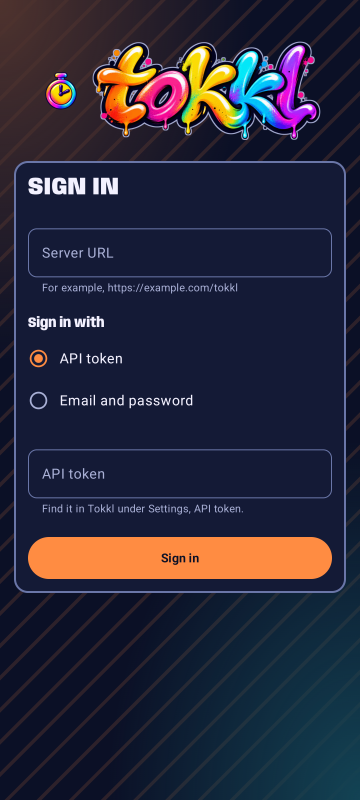
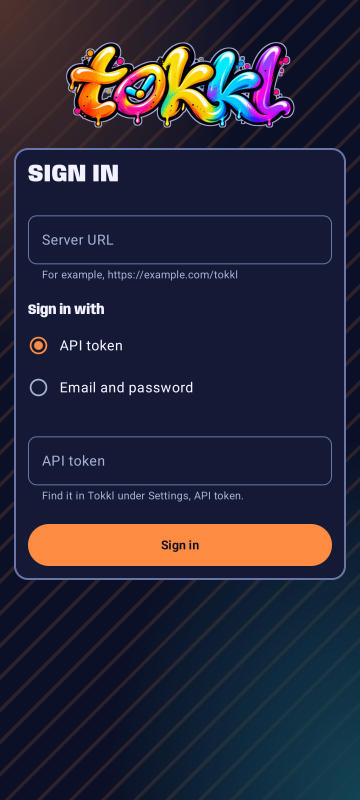
feat(brand): show the clock O wordmark alone as the brand
Brand now draws only the wordmark, on the sign-in scene and as the
Timer page heading. The logo stays the launcher icon. The 12 old icon
PNGs, their sm, md and lg aliases and the keep.xml mention are gone.

The 12 wordmark PNGs are cut from Tokkl's clock O master
(docs/brand/wordmark-pack/source/tokkl-wordmark-clock-master.png at
df6711b) with the alpha bounds plus a 4 px margin, 2059x769, at their
old widths. WORDMARK_ASPECT_RATIO follows the new crop. The wordmark is
shorter for its width, so the content under it moves up.

BrandTest fails when anything sits beside the wordmark in Brand, at all
three sizes. The sign-in, Timer and Calendar references are re-recorded
on tokkl-api36. The Calendar view shows the Timer heading too. The PRD
now says the logo never appears beside the wordmark.

Refs: TKA-0164

Changed region(s): [[0.0306, 0.2812, 0.9778, 0.75], [0.0306, 0.0312, 0.8861, 0.25], [0.8861, 0.1875, 0.9778, 0.2188]]

diff --git a/app/src/androidTest/java/com/github/e0ipso/tokkl/ui/BrandTest.kt b/app/src/androidTest/java/com/github/e0ipso/tokkl/ui/BrandTest.kt
@@ -12,8 +12,10 @@ import androidx.compose.ui.graphics.Color
 import androidx.compose.ui.graphics.PixelMap
 import androidx.compose.ui.graphics.toPixelMap
 import androidx.compose.ui.platform.testTag
+import androidx.compose.ui.semantics.Role
 import androidx.compose.ui.semantics.SemanticsProperties
 import androidx.compose.ui.semantics.getOrNull
+import androidx.compose.ui.test.SemanticsMatcher
 import androidx.compose.ui.test.captureToImage
 import androidx.compose.ui.test.getUnclippedBoundsInRoot
 import androidx.compose.ui.test.hasContentDescription
@@ -37,10 +39,10 @@ import org.junit.Rule
 import org.junit.Test
 
 /**
- * The brand's halo and its fit (docs/PRD.md, Visual direction, Wordmark). The halo is checked
- * against the same brand drawn in light mode, which draws none, on the same background, and
- * against the wordmark alone on a marker colour, which shows where the artwork is.
- * LaunchScreenTest and SignInScreenTest check that TalkBack reads the brand once.
+ * The brand's halo, its fit, and that it is the wordmark alone (docs/PRD.md, Visual direction,
+ * Wordmark). The halo is checked against the same brand drawn in light mode, which draws none, on
+ * the same background, and against the brand on a marker colour, which shows where the artwork
+ * is. LaunchScreenTest and SignInScreenTest check that TalkBack reads the brand once.
  */
 class BrandTest {
     @get:Rule
@@ -74,14 +76,11 @@ class BrandTest {
         val stray = outside.filter { (x, y) -> !dark[x, y].near(light[x, y], EXACT) && !artwork.anyWithin(x, y, reach) }
         assertTrue("the halo reaches beyond 1dp at ${stray.take(5)}", stray.isEmpty())
 
-        // The icon, left of the wordmark and the gap, has no halo.
-        val wordmarkLeft = ((wordmarkBounds().left - composeRule.onNodeWithTag(FRAME).getUnclippedBoundsInRoot().left).value * density).toInt() - reach
-        val aroundWordmark = outside.filter { (x, _) -> x >= wordmarkLeft }
-        val halo = aroundWordmark.count { (x, y) -> dark[x, y].near(HALO, EXACT) }
+        val halo = outside.count { (x, y) -> dark[x, y].near(HALO, EXACT) }
         assertTrue("only $halo pixels in the wordmark-halo colour", halo > MIN_HALO_PIXELS)
 
         // The pixels just outside the artwork, on every side of every letter, take the halo.
-        val edge = aroundWordmark.filter { (x, y) -> artwork.anyWithin(x, y, 1) }
+        val edge = outside.filter { (x, y) -> artwork.anyWithin(x, y, 1) }
         val traced = edge.count { (x, y) -> dark[x, y].near(HALO, BLENDED) }
         assertTrue("the halo covers $traced of ${edge.size} pixels at the wordmark's edge", traced >= edge.size * MIN_TRACED_SHARE)
     }
@@ -94,18 +93,57 @@ class BrandTest {
     }
 
     @Test
-    fun aNarrowRowShrinksTheWordmarkBesideTheIconWithoutCuttingIt() {
+    fun aNarrowRowShrinksTheWordmarkToItsWidthWithoutCuttingIt() {
         show(width = NARROW)
 
         val frame = composeRule.onNodeWithTag(FRAME).getUnclippedBoundsInRoot()
         val wordmark = wordmarkBounds()
         val width = wordmark.right - wordmark.left
         val height = wordmark.bottom - wordmark.top
-        assertTrue("the wordmark is $width wide in a $NARROW row", width < BrandSize.LARGE.wordmarkWidth && width > 0.dp)
+        assertEquals("the wordmark's width in a $NARROW row", NARROW.value, width.value, PIXEL_DP)
         assertTrue("the wordmark ends at ${wordmark.right}, past the row's ${frame.right}", wordmark.right <= frame.right + PIXEL_DP.dp)
         assertEquals("the wordmark keeps its shape", WORDMARK_ASPECT_RATIO, width / height, 0.02f)
-        val icon = BrandSize.LARGE.iconSize + BrandSize.LARGE.gap
-        assertEquals("the icon keeps its size", icon.value, (wordmark.left - frame.left).value, PIXEL_DP)
+    }
+
+    /**
+     * The logo is only the launcher icon, never beside the wordmark. TalkBack finds one image in
+     * the brand, the wordmark. A decorative image has no semantics node, so the test also checks
+     * the brand's bounds and pixels. Anything beside the wordmark widens the brand or draws outside
+     * the wordmark's bounds.
+     */
+    @Test
+    fun theBrandDrawsTheWordmarkAndNoOtherImage() {
+        var size by mutableStateOf(BrandSize.LARGE)
+        composeRule.setContent {
+            Box(Modifier.testTag(FRAME).background(MARKER).padding(FRAME_PADDING)) {
+                TokklTheme(darkTheme = false) { Brand(size, Modifier.testTag(BRAND)) }
+            }
+        }
+        for (each in BrandSize.entries) {
+            size = each
+            val image = capture()
+
+            val images = composeRule.onAllNodes(SemanticsMatcher.expectValue(SemanticsProperties.Role, Role.Image), useUnmergedTree = true)
+                .fetchSemanticsNodes()
+                .map { it.config.getOrNull(SemanticsProperties.ContentDescription) }
+            assertEquals("the images in the $each brand", listOf(listOf(string(R.string.app_name))), images)
+
+            val brand = composeRule.onNodeWithTag(BRAND).getUnclippedBoundsInRoot()
+            val wordmark = wordmarkBounds()
+            assertEquals("the $each wordmark's width", each.wordmarkWidth.value, (wordmark.right - wordmark.left).value, PIXEL_DP)
+            val margins = listOf(wordmark.left - brand.left, brand.right - wordmark.right, wordmark.top - brand.top, brand.bottom - wordmark.bottom)
+            assertTrue("the $each brand reaches past its wordmark by $margins", margins.all { abs(it.value) <= PIXEL_DP })
+
+            // Light mode draws no halo, so every pixel off the marker colour is inside the wordmark.
+            val frame = composeRule.onNodeWithTag(FRAME).getUnclippedBoundsInRoot()
+            val left = (wordmark.left - frame.left).px() - 1
+            val right = (wordmark.right - frame.left).px() + 1
+            val top = (wordmark.top - frame.top).px() - 1
+            val bottom = (wordmark.bottom - frame.top).px() + 1
+            val stray = (0 until image.width).flatMap { x -> (0 until image.height).map { y -> x to y } }
+                .filter { (x, y) -> (x !in left..right || y !in top..bottom) && !image[x, y].near(MARKER, 0) }
+            assertTrue("the $each brand draws outside its wordmark at ${stray.take(5)}", stray.isEmpty())
+        }
     }
 
     private fun show(width: Dp) {
@@ -120,6 +158,8 @@ class BrandTest {
     /** The wordmark's own node, not the brand's merged one. */
     private fun wordmarkBounds() =
         composeRule.onNode(hasContentDescription(string(R.string.app_name)), useUnmergedTree = true).getUnclippedBoundsInRoot()
+
+    private fun Dp.px(): Int = (value * density).roundToInt()
 
     private fun capture(): PixelMap {
         composeRule.waitForIdle()
@@ -146,6 +186,7 @@ class BrandTest {
 
     private companion object {
         const val FRAME = "frame"
+        const val BRAND = "brand"
 
         /** Room around the brand for the halo, which draws outside the wordmark's bounds. */
         val FRAME_PADDING = 8.dp
@@ -167,15 +208,15 @@ class BrandTest {
         const val MIN_HALO_PIXELS = 1000
         const val MIN_TRACED_SHARE = 0.9
 
-        /** Width over height of the wordmark images, 1645x709 px. */
-        const val WORDMARK_ASPECT_RATIO = 1645f / 709f
+        /** Width over height of the wordmark images, 2059x769 px. */
+        const val WORDMARK_ASPECT_RATIO = 2059f / 769f
 
         /** About a pixel, in dp. */
         const val PIXEL_DP = 0.5f
     }
 }
 
-/** TalkBack finds the brand once, as the app's name: one node, which the decorative icon adds nothing to. */
+/** TalkBack finds the brand once, as the app's name: one node, the wordmark's. */
 fun ComposeTestRule.assertBrandReadsOnce() {
     val name = string(R.string.app_name)
     val nodes = onAllNodes(hasContentDescription(name) or hasText(name)).fetchSemanticsNodes()

diff --git a/app/src/main/java/com/github/e0ipso/tokkl/ui/Brand.kt b/app/src/main/java/com/github/e0ipso/tokkl/ui/Brand.kt
@@ -2,13 +2,10 @@ package com.github.e0ipso.tokkl.ui
 
 import androidx.annotation.DrawableRes
 import androidx.compose.foundation.Image
-import androidx.compose.foundation.layout.Arrangement
-import androidx.compose.foundation.layout.Row
+import androidx.compose.foundation.layout.Box
 import androidx.compose.foundation.layout.aspectRatio
-import androidx.compose.foundation.layout.size
 import androidx.compose.foundation.layout.width
 import androidx.compose.runtime.Composable
-import androidx.compose.ui.Alignment
 import androidx.compose.ui.Modifier
 import androidx.compose.ui.draw.drawBehind
 import androidx.compose.ui.graphics.Color
@@ -22,62 +19,48 @@ import androidx.compose.ui.semantics.semantics
 import androidx.compose.ui.unit.Dp
 import androidx.compose.ui.unit.dp
 import com.github.e0ipso.tokkl.R
-import com.github.e0ipso.tokkl.ui.theme.TokklSpacing
 import com.github.e0ipso.tokkl.ui.theme.TokklTheme
 
 /**
- * The sizes of [Brand], Tokkl's sm, md and lg in Brand.tsx: the icon's size, the wordmark's
- * width and the gap between them. Each has its own images, so none is drawn scaled down from a
- * larger size. The image names are aliases: brand_images.xml in res/values and in each density's
- * values folder points them at one file per density. res/raw/brand_images_source.txt records
- * where the files come from.
+ * The sizes of [Brand], Tokkl's sm, md and lg in Brand.tsx, as the wordmark's width. Each has its
+ * own images, so none is drawn scaled down from a larger size. The image names are aliases:
+ * brand_images.xml in res/values and in each density's values folder points them at one file per
+ * density. res/raw/brand_images_source.txt records where the files come from.
  */
 enum class BrandSize(
-    internal val iconSize: Dp,
     internal val wordmarkWidth: Dp,
-    internal val gap: Dp,
-    @DrawableRes internal val icon: Int,
     @DrawableRes internal val wordmark: Int,
 ) {
     /** A header strip. */
-    SMALL(24.dp, 84.dp, TokklSpacing.space2, R.drawable.tokkl_icon_sm, R.drawable.tokkl_wordmark_sm),
+    SMALL(84.dp, R.drawable.tokkl_wordmark_sm),
 
     /** Beside a column of navigation. */
-    MEDIUM(30.dp, 130.dp, TokklSpacing.space3, R.drawable.tokkl_icon_md, R.drawable.tokkl_wordmark_md),
+    MEDIUM(130.dp, R.drawable.tokkl_wordmark_md),
 
     /** On its own above a screen's content, as on sign-in. */
-    LARGE(48.dp, 260.dp, TokklSpacing.space3, R.drawable.tokkl_icon_lg, R.drawable.tokkl_wordmark_lg),
+    LARGE(260.dp, R.drawable.tokkl_wordmark_lg),
 }
 
 /**
- * Tokkl's brand, as Tokkl's Brand.tsx draws it: the app icon beside the owner's graffiti
- * wordmark (docs/PRD.md, Visual direction, Wordmark). TalkBack reads the brand once, as "Tokkl",
- * the wordmark's description; the icon is decorative. The brand is one semantics node, so a
- * [modifier] that makes it a heading names it too.
+ * Tokkl's brand, the owner's graffiti wordmark alone, as Tokkl's Brand.tsx draws it (docs/PRD.md,
+ * Visual direction, Wordmark). Its "o" is a clock, a letter of the wordmark. The logo is only the
+ * launcher icon and never sits beside the wordmark. TalkBack reads the brand once, as "Tokkl",
+ * the wordmark's description. The brand is one semantics node, so a [modifier] that makes it a
+ * heading names it too.
  *
  * In dark mode a 1dp halo in `--wordmark-halo` traces the wordmark, because the artwork's navy
- * outline matches the background there. Light mode draws none. In a row narrower than the
- * brand, the wordmark shrinks to fit beside the icon.
+ * outline matches the background there. Light mode draws none. In a space narrower than the
+ * wordmark, the wordmark shrinks to fit and keeps its shape.
  */
 @Composable
 fun Brand(size: BrandSize, modifier: Modifier = Modifier) {
     val wordmark = painterResource(size.wordmark)
     val halo = TokklTheme.extraColors.wordmarkHalo
-    Row(
-        modifier = modifier.semantics(mergeDescendants = true) {},
-        horizontalArrangement = Arrangement.spacedBy(size.gap),
-        verticalAlignment = Alignment.CenterVertically,
-    ) {
-        Image(
-            painter = painterResource(size.icon),
-            contentDescription = null,
-            modifier = Modifier.size(size.iconSize),
-        )
+    Box(modifier.semantics(mergeDescendants = true) {}) {
         Image(
             painter = wordmark,
             contentDescription = stringResource(R.string.app_name),
             modifier = Modifier
-                .weight(1f, fill = false)
                 .width(size.wordmarkWidth)
                 .aspectRatio(WORDMARK_ASPECT_RATIO)
                 .drawBehind { drawHalo(wordmark, halo) },
@@ -107,5 +90,5 @@ private fun DrawScope.drawHalo(image: Painter, colour: Color) {
 private val HALO_WIDTH = 1.dp
 private val HALO_STEPS = -1..1
 
-/** Width over height of the wordmark images: Tokkl's crop, 1645x709 px. */
-private const val WORDMARK_ASPECT_RATIO = 1645f / 709f
+/** Width over height of the wordmark images: the crop, 2059x769 px. */
+private const val WORDMARK_ASPECT_RATIO = 2059f / 769f

diff --git a/app/src/androidTest/java/com/github/e0ipso/tokkl/LaunchScreenTest.kt b/app/src/androidTest/java/com/github/e0ipso/tokkl/LaunchScreenTest.kt
@@ -46,7 +46,7 @@ class LaunchScreenTest {
         assertEquals(listOf(true, false, false, false, false), tabs.map { it.config.getOrNull(SemanticsProperties.Selected) })
     }
 
-    /** TalkBack reads the brand on the Timer page once, as "Tokkl". The icon beside the wordmark is decorative. */
+    /** TalkBack reads the brand on the Timer page, the wordmark alone, once, as "Tokkl". */
     @Test
     fun theBrandIsOneTalkBackNode() {
         composeRule.awaitTimerPage()

diff --git a/app/src/androidTest/java/com/github/e0ipso/tokkl/signin/SignInScreenTest.kt b/app/src/androidTest/java/com/github/e0ipso/tokkl/signin/SignInScreenTest.kt
@@ -79,7 +79,7 @@ class SignInScreenTest {
         composeRule.awaitText(string(R.string.sign_in_server_url))
     }
 
-    /** TalkBack reads the brand above the form once, as "Tokkl". The icon beside the wordmark is decorative. */
+    /** TalkBack reads the brand above the form, the wordmark alone, once, as "Tokkl". */
     @Test
     fun theBrandIsOneTalkBackNode() {
         composeRule.assertBrandReadsOnce()

diff --git a/docs/PRD.md b/docs/PRD.md
@@ -78,6 +78,7 @@ Decisions:
 - **Type.** Anybody for the running clock, totals and headings, bundled with the app. Tokkl already ships it under the SIL Open Font License 1.1 (`../tokkl/packages/web/public/fonts/OFL.txt`). Everything else uses the system font.
 - **Spacing and type scale.** Spacing is 4, 8, 12, 16, 20, 24, 32 and 48dp, Tokkl's `--space-1` to `--space-8`. Screens keep a 16dp margin on compact widths and 24dp on medium and wider, and content is capped at 600dp. Anybody, always at width 85, sets the page title (28sp, weight 900, uppercase), clock (36sp, 800), totals (28sp, 800), day total (22sp, 800), day header (17sp, 900, uppercase), card title (18sp, 800) and section heading (16sp, 800). The system font sets body text at 16, 14 and 12sp, the small-caps label at 12sp weight 700 and the button label at 14sp weight 700. A monospace role sets fingerprints and codes.
 - **Wordmark.** The owner's graffiti artwork, shipped as an image with the content description "Tokkl" for TalkBack, so it uses no font. In dark mode a 1dp halo in `--wordmark-halo` (#A9B0D6) traces its edge, because the artwork's navy outline matches the background there. Light mode draws no halo. See `../tokkl/docs/PRD.md`, Visual direction, Typeface.
+- **Logo.** The logo appears only as the launcher icon, never beside the wordmark. The wordmark's "o" is a clock, but that clock is a letter of the wordmark, not the logo.
 - **Texture.** Gradients or vectors only, never raster images, and never behind inputs or data. See `../tokkl/docs/PRD.md`, Visual direction, Texture.
 - **Type effects.** Rotated or skewed type is decoration only. It never appears on controls, numbers or labels. See `../tokkl/docs/PRD.md`, Visual direction, Type effects.
 - **Motion.** All motion respects the system's remove-animations setting. With it on, nothing animates. See `../tokkl/docs/PRD.md`, Visual direction, Motion.
